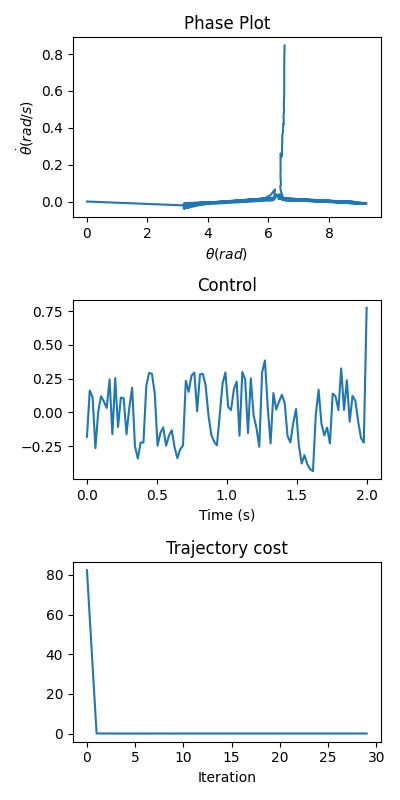
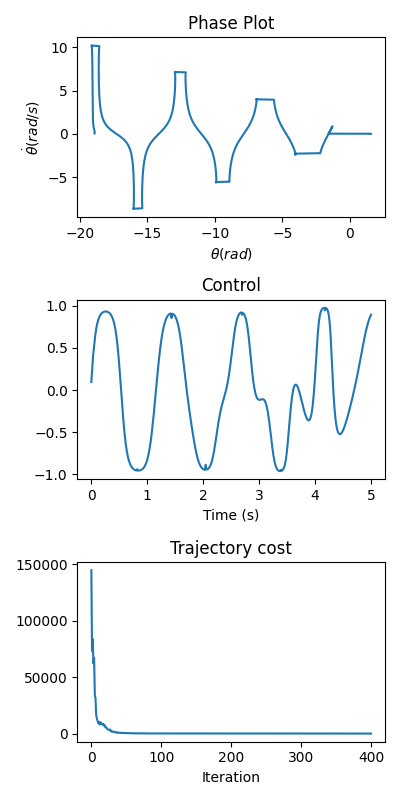
working cartpole ddp

diff --git a/ddp/examples/cartpole.py b/ddp/examples/cartpole.py
@@ -17,13 +17,13 @@ except ImportError:
 
 
 # dynamics parameters
-mp = 0.1
+mp = 0.01
 mc = 1.0
-l = 0.5
+l = 0.25
 # G = 9.80665
 G = 9.8
 # dt = 0.05
-dt = 0.02
+dt = 0.01
 friccoeff = [0.5, 0.05]
 
 # dynamics
@@ -65,34 +65,48 @@ def f(x, u, constrain=False):
     )
 
 
-# instantenious cost
+# instantaneous cost
 def g(x, u, x_goal):
-    error = x - x_goal
-    Q = np.eye(len(x))
-    Q[1, 1] = Q[3, 3] = 0.1
-    # R = 0.1 * np.eye(len(u))
-    a_cost = 0.25
-    ctrl_cost = 0.01*a_cost*a_cost*(sym.cosh(u[0]/a_cost)-1)
-    ctrl_cost = sym.Matrix([ctrl_cost])
+    # error = x - x_goal
+    # Q = np.eye(len(x))
+    # # # Q[0, 0] = 5000
+    # Q[0, 0] = 0
+    # Q[1, 1] = 0.1
+    # Q[2, 2] = 1.5
+    # Q[3, 3] = 0.1
+    # R = 15 * np.eye(len(u))
+    R = 0.3 * np.eye(len(u))
+    # a_cost = 0.25
+    # ctrl_cost = 0.01*a_cost*a_cost*(sym.cosh(u[0]/a_cost)-1)
+    # ctrl_cost = sym.Matrix([ctrl_cost])
     # print(type(error.T @ Q @ error))
     # print(type(sym.Matrix([ctrl_cost])))
-    return error.T @ Q @ error + ctrl_cost #+ u.T @ R @ u
+    # return error.T @ Q @ error + ctrl_cost
+    return u.T @ R @ u
+    # return error.T @ Q @ error + u.T @ R @ u
 
 
-# termination cost
+# final cost
 def h(x, x_goal):
     error = x - x_goal
     Q = 100 * np.eye(len(x))
+    # Q[0, 0] = 5000
+    Q[0, 0] = 100
+    Q[1, 1] = 100
+    Q[2, 2] = 15000
+    Q[3, 3] = 300
+
     return error.T @ Q @ error
 
 
 # trajectory parameters
-N = 100  # trajectory points
+max_iters = 400
+N = 500  # trajectory points
 Nx = 4  # state dimension
 Nu = 1  # control dimesions
 
 # starting state
-x0 = np.array([0.0, 0.0, 0.0, 0.0])
+x0 = np.array([0.0, 0.0, np.pi, 0.0])
 # x0 = np.array([0.0, 0.0, np.sin(0.0), np.cos(0.0), 0.0])
 
 # goal state we want to reach
@@ -107,13 +121,23 @@ env1 = CartPoleR2Env(init_state=x0.copy(), render_mode='human')
 env1.reset()
 for i in range(1):
     start_time = time()
-    ddp = DDPOptimizer(Nx, Nu, f, g, h)
-    X, U, X_hist, U_hist, J_hist = ddp.optimize(x0, x_goal, N=N, full_output=True)
+    ddp = DDPOptimizer(
+        Nx, Nu,
+        f, g, h,
+        max_iters=max_iters
+    )
+    X, U, X_hist, U_hist, J_hist = ddp.optimize(
+        x0, x_goal, N=N,
+        full_output=True
+    )
+    print(X)
+    input()
     print("Finished optimization in {:.2f}s".format(time() - start_time))
 
     # input('Press "Enter" to start.. ..')
     for t in range(len(U)):
         env1.step(action=np.float32(U[t][0]))
+        print(env1.state)
     x_0 = env1.state
     # env1.step(action=0.0)
 

diff --git a/ddp/ddp.py b/ddp/ddp.py
@@ -20,7 +20,7 @@ class DDPOptimizer:
         inst_cost: Callable,
         terminal_cost: Callable,
         tolerance: float = 1e-5,
-        max_iters: int = 200,
+        max_iters: int = 400,
         with_hessians: bool = False,
         constrain: bool = False,
         alphas: ArrayLike = [1.0],
@@ -271,31 +271,34 @@ class DDPOptimizer:
             #         logging.warn("Reached final alpha")
             #         done = True
 
-            alpha = 1.0
             X_star = np.zeros_like(X)
             U_star = np.zeros_like(U)
             X_star[0] = X[0].copy()
-            
+            # import warnings
+            # warnings.simplefilter('error')
+            gamma = 0.2
+            alpha = 0.3
             for t in range(N):
                 error = X_star[t] - X[t]
-                U_star[t] = U[t] - inv(Quus[t]) @ (alpha * Qus[t] + Quxs[t] @ error)
+                try:
+                    # test1 = (inv(Quus[t]) @ (Quxs[t] @ error))
+                    U_star[t] = U[t] - gamma * (inv(Quus[t]) @ (alpha * Qus[t] + Quxs[t] @ error))
+                except RuntimeWarning:
+                    input('ERROR')
                 X_star[t + 1] = self.f(X_star[t], U_star[t]).flatten()
             total_cost = J(X_star, U_star)
+            X = X_star.copy()
             U = U_star.copy()
 
             if full_output:
                 X_hist.append(X.copy())
                 U_hist.append(U.copy())
                 cost_hist.append(total_cost)
-
+            print(total_cost)
             # check for convergence at the end of the optimization cylcle
             if done or abs(last_cost - total_cost) < self.tolerance:
-                print(last_cost)
-                print(total_cost)
-                input('h2')
                 break
             last_cost = total_cost
-            print(last_cost)
         time_taken = time() - start
         logging.info("Converged in {:}/{:} iterations".format(i, self.max_iters))
         logging.info("Total optimzation time {:.2f}".format(time_taken))

diff --git a/ddp/examples/cartpole_r2.py b/ddp/examples/cartpole_r2.py
@@ -83,18 +83,18 @@ class CartPoleR2Env(gymnasium.Env[np.ndarray, Union[int, np.ndarray]]):
 
     metadata = {
         "render_modes": ["human", "rgb_array"],
-        "render_fps": 20,
+        "render_fps": 100,
     }
 
     def __init__(self, init_state=None, render_mode: Optional[str] = None):
         self.gravity = 9.8
         self.masscart = 1.0
-        self.masspole = 0.1
+        self.masspole = 0.01
         self.total_mass = self.masspole + self.masscart
-        self.length = 0.5  # actually half the pole's length
+        self.length = 0.25  # actually half the pole's length
         self.polemass_length = self.masspole * self.length
         self.force_mag = 10.0
-        self.tau = 0.05  # seconds between state updates
+        self.tau = 0.01  # seconds between state updates
         self.kinematics_integrator = "euler"
         self.friccoeff = [1, 0.05]
 
@@ -260,7 +260,7 @@ class CartPoleR2Env(gymnasium.Env[np.ndarray, Union[int, np.ndarray]]):
         if self.clock is None:
             self.clock = pygame.time.Clock()
 
-        world_width = self.x_threshold * 10
+        world_width = self.x_threshold * 2
         scale = self.screen_width / world_width
         polewidth = 10.0
         polelen = scale * (2 * self.length)
